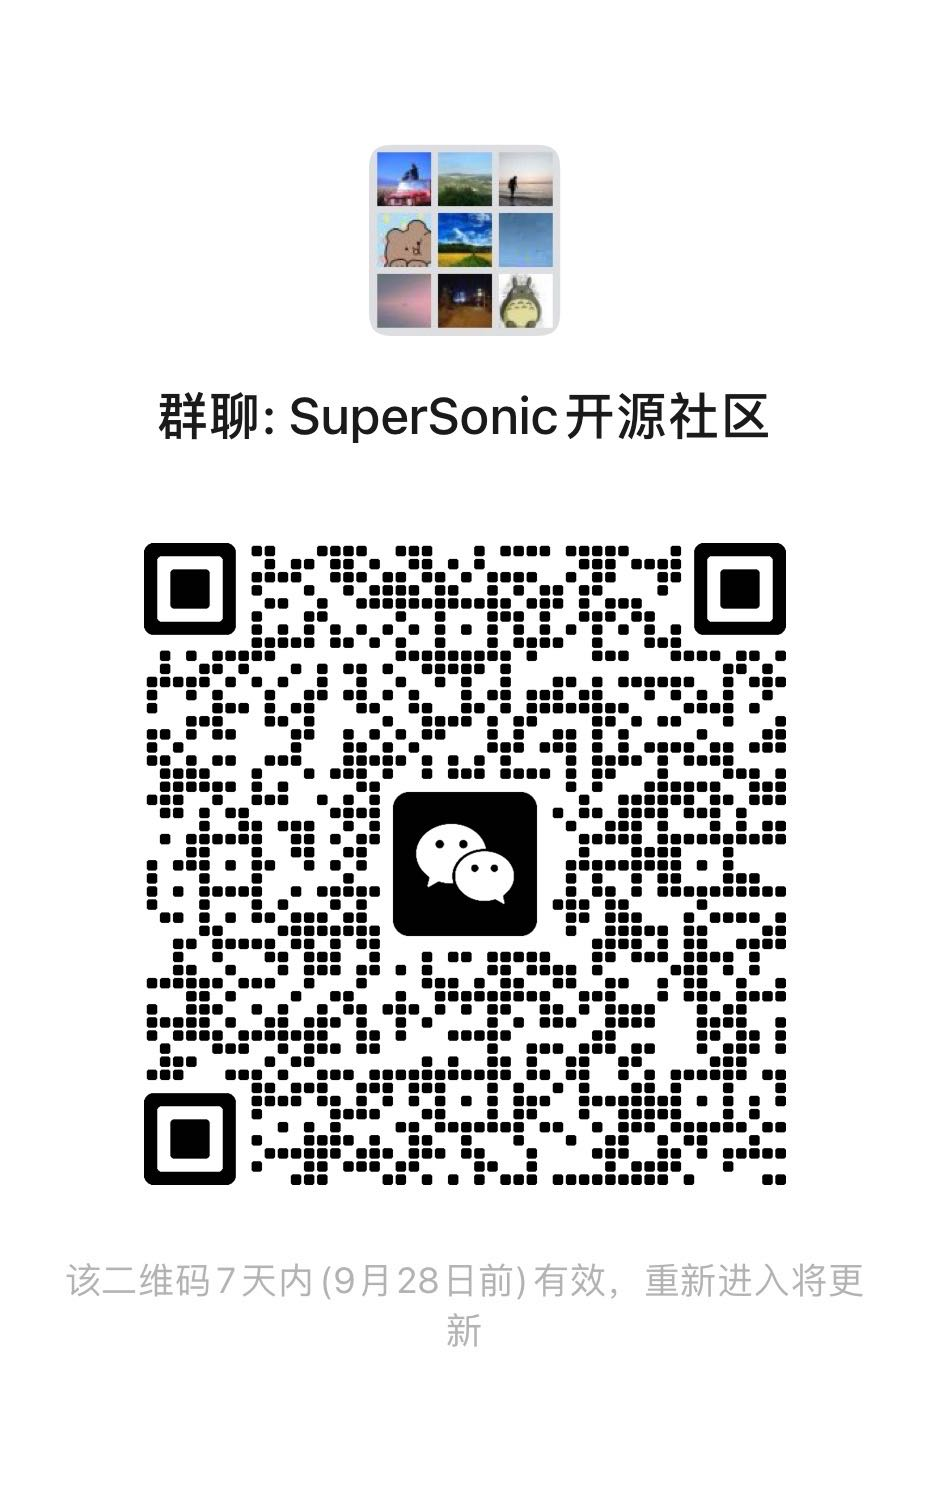
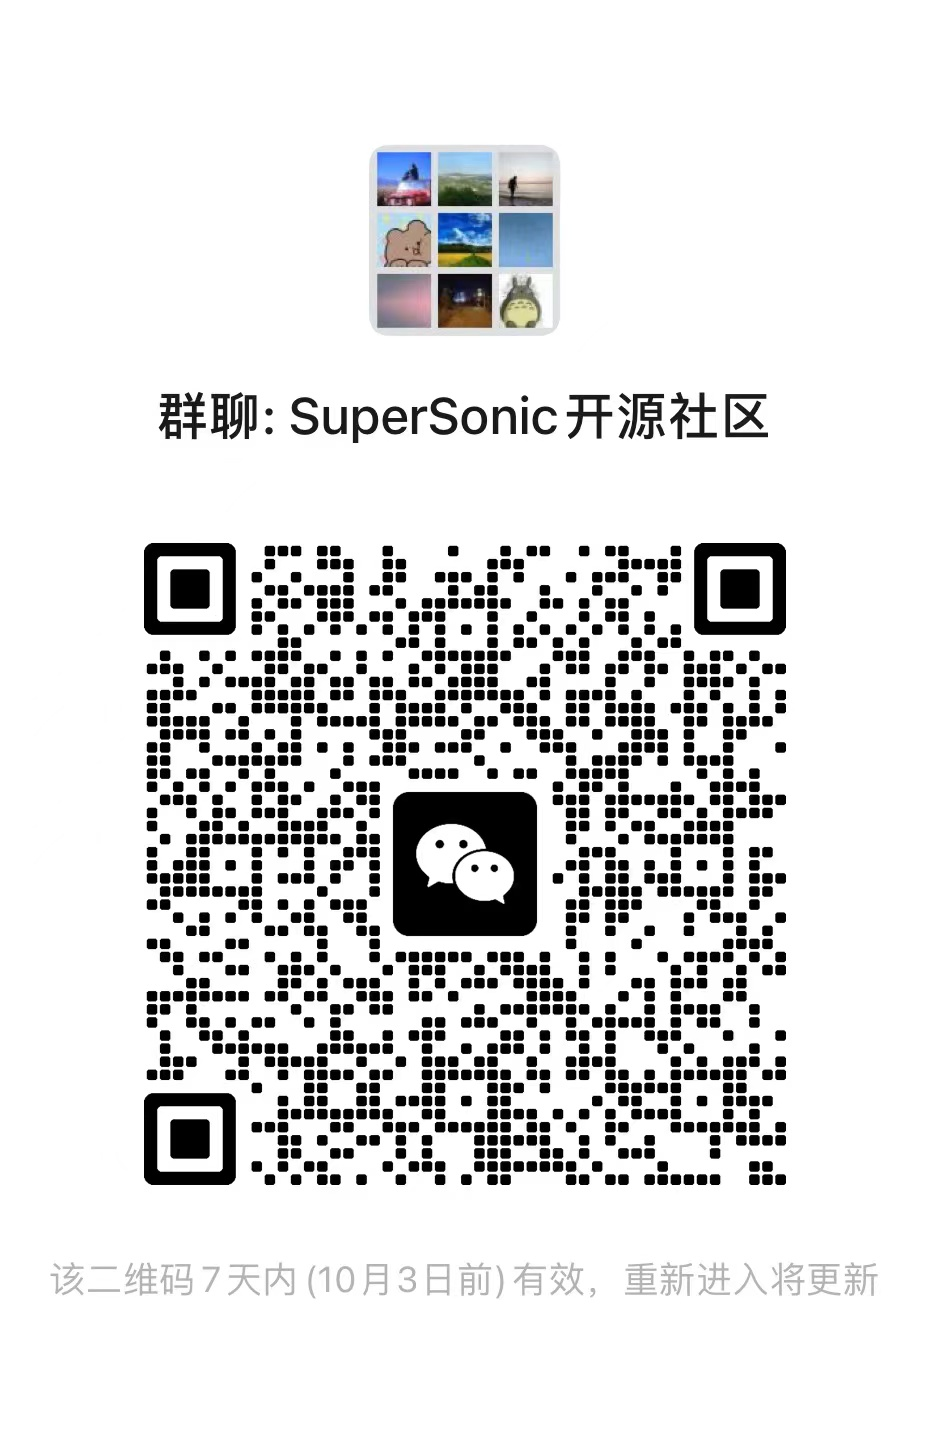
[improvement][docs]Update README and wechat group

Changed region(s): [[0.0624, 0.3423, 0.9355, 0.9025], [0.3118, 0.0934, 0.8419, 0.3112], [0.1559, 0.249, 0.2806, 0.3112]]

diff --git a/README.md b/README.md
@@ -2,18 +2,18 @@
 
 # SuperSonic (超音数)
 
-**SuperSonic is an out-of-the-box yet highly extensible framework for building a data chatbot**. SuperSonic provides a chat interface that empowers users to query data using natural language and visualize the results with suitable charts. To enable such experience, the only thing necessary is to build logical semantic models (definition of metrics/dimensions/entities, along with their meaning, context and relationships) on top of physical data models, and no data modification or copying is required. Meanwhile, SuperSonic is designed to be pluggable, allowing new functionalities to be added through plugins and core components to be integrated with other systems.
+**SuperSonic is an out-of-the-box yet highly extensible framework for building ChatBI**. SuperSonic provides a chat interface that empowers users to query data using natural language and visualize the results with suitable charts. To enable such experience, the only thing necessary is to build logical semantic models (definition of metrics/dimensions/entities, along with their meaning, context and relationships) on top of physical data models, and no data modification or copying is required. Meanwhile, SuperSonic is designed to be pluggable, allowing new functionalities to be added through plugins and core components to be integrated with other systems.
 
 <img src="./docs/images/supersonic_demo.gif" height="100%" width="100%" align="center"/>
 
 ## Motivation
 
-The emergence of Large Language Model (LLM) like ChatGPT is reshaping the way information is retrieved. In the field of data analytics, both academia and industry are primarily focused on leveraging LLM to convert natural language queries into SQL queries. While some works show promising results, they are still not applicable to real-world scenarios.
+The emergence of Large Language Model (LLM) like ChatGPT is reshaping the way information is retrieved. In the field of data analytics, both academia and industry are primarily focused on leveraging LLM to convert natural language into SQL (so called text2sql or nl2sql). While some works show promising results, they are still not applicable to real-world scenarios.
 
 From our perspective, the key to filling the real-world gap lies in three aspects: 
-1. Complement the LLM-based semantic parser with rule-based semantic parsers to improve **efficiency**(in terms of latency and cost).
+1. Introduce a semantic layer encapsulating underlying data context(joins, formulas, etc) to reduce **complexity**.
 2. Augment semantic parsing with schema mappers(as a kind of preprocessor) and semantic correctors(as a kind of postprocessor) to improve **accuracy** and **stability**.
-3. Introduce a semantic layer encapsulating underlying data context(joins, formulas, etc) to reduce **complexity**.
+3. Complement the LLM-based semantic parser with rule-based semantic parsers to improve **efficiency**(in terms of latency and cost).
 
 With these ideas in mind, we develop SuperSonic as a practical reference implementation and use it to power our real-world products. Additionally, to facilitate further development of data chatbot, we decide to open source SuperSonic as an extensible framework.
 

diff --git a/README_CN.md b/README_CN.md
@@ -9,9 +9,9 @@
 大型语言模型（LLMs）如ChatGPT的出现正在重塑信息检索的方式。在数据分析领域，学术界和工业界主要关注利用深度学习模型将自然语言查询转换为SQL查询。虽然一些工作显示出有前景的结果，但它们还并不适用于实际场景。
 
 在我们看来，为了在实际场景发挥价值，有三个关键点：
-1. 在基于大模型语义解析器基础上，增加基于规则的解析器，提升语义解析的**效率**。
+1. 引入语义模型层，封装底层数据的上下文（关联、公式等），降低语义解析的**复杂性**。
 2. 加入模式映射器和语义修正器，来增强语义解析能力，提升语义解析的**准确性**和**稳定性**。
-3. 引入语义模型层，封装底层数据的上下文（关联、公式等），降低语义解析的**复杂性**。
+3. 在基于大模型语义解析器基础上，增加基于规则的解析器，提升语义解析的**效率**。
 
 为了验证上述想法，我们开发了超音数项目，并将其应用在实际的内部产品中。与此同时，我们将超音数作为一个可扩展的框架开源，希望能够促进数据问答对话领域的进一步发展。
 
@@ -38,7 +38,7 @@
 
 - **语义修正器(Semantic Corrector)：** 检查语义信息的合法性，对不合法的信息做修正和优化处理。
 
-- **语义模型层(Semantic Layer)：** 根据语义信息生成物理SQL执行查询。
+- **语义翻译器(Semantic Layer)：** 根据语义信息生成物理SQL执行查询。
 
 - **问答插件(Chat Plugin)：** 通过第三方工具扩展功能。给定所有配置的插件及其功能描述和示例问题，大语言模型将选择最合适的插件。
 
